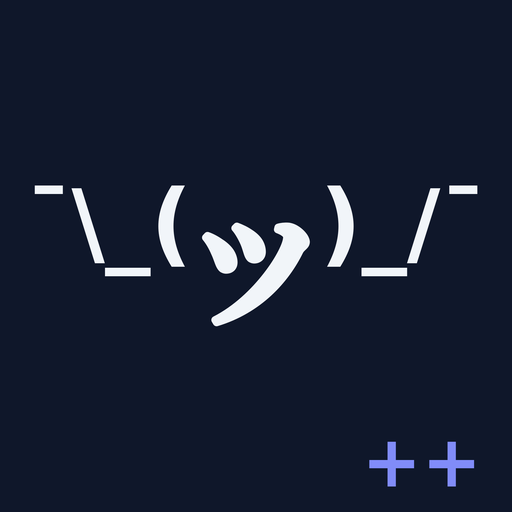
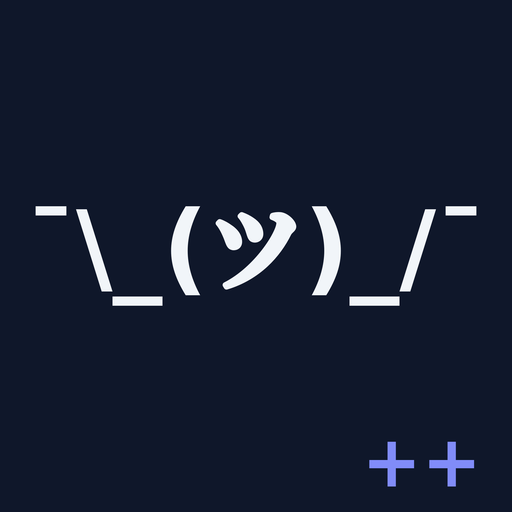
fix: center the face glyph between the parentheses
Size the ツ by ink height relative to the paren ink and center it on the paren ink center, instead of sharing the arms' baseline (which made it hang halfway below the parens).

Changed region(s): [[0.0625, 0.3438, 0.9375, 0.6562]]

diff --git a/profile/make_avatar.py b/profile/make_avatar.py
@@ -2,7 +2,9 @@
 """Generate the AutomationPlusPlus org avatar (profile/avatar.png).
 
 Arms use DejaVu Sans Bold unstroked — a uniform stroke fuses the tightly
-packed ¯ \\ _ ( glyphs into blobs. Only the thin serif ツ gets a mild stroke.
+packed ¯ \\ _ ( glyphs into blobs. The serif ツ gets a mild stroke and is
+sized/positioned by ink bbox so it sits centered between the parentheses
+instead of hanging below their baseline.
 """
 from PIL import Image, ImageDraw, ImageFont
 
@@ -12,48 +14,64 @@ BG, FG, ACCENT = (15, 23, 42), (241, 245, 249), (129, 140, 248)
 DEJAVU = "/usr/share/fonts/truetype/dejavu/DejaVuSans-Bold.ttf"
 CJK = "/usr/share/fonts/opentype/noto/NotoSerifCJK-Bold.ttc"
 
-def build(font_size):
-    dv = ImageFont.truetype(DEJAVU, font_size)
-    face_size = int(font_size * 1.4)
-    cjk = ImageFont.truetype(CJK, face_size, index=2)  # index 2 = JP
-    face_stroke = int(face_size * 0.03)
-    return [("¯\\_(", dv, 0), ("ツ", cjk, face_stroke), (")_/¯", dv, 0)]
-
 img = Image.new("RGB", (W, W), BG)
 d = ImageDraw.Draw(img)
 
-# size the shrug to ~90% of the canvas width
-target = int(W * 0.90)
+def face_font_for(paren_ink_h, guess):
+    # scale the face font so its ink height is ~88% of the paren ink height
+    for _ in range(10):
+        f = ImageFont.truetype(CJK, guess, index=2)  # index 2 = JP
+        st = int(guess * 0.03)
+        b = d.textbbox((0, 0), "ツ", font=f, stroke_width=st)
+        ink = b[3] - b[1]
+        target = paren_ink_h * 0.88
+        if abs(ink - target) < 4:
+            break
+        guess = int(guess * target / ink)
+    return f, st
+
+def layout(fs):
+    dv = ImageFont.truetype(DEJAVU, fs)
+    pb = d.textbbox((0, 0), "(", font=dv)
+    cjk, st = face_font_for(pb[3] - pb[1], int(fs * 1.1))
+    return dv, cjk, st, pb
+
+# fit total width to ~90% of the canvas
 fs = 400
 for _ in range(20):
-    segs = build(fs)
-    w = sum(d.textlength(t, font=f) for t, f, _ in segs)
-    if abs(w - target) < 8:
+    dv, cjk, st, pb = layout(fs)
+    total = (d.textlength("¯\\_(", font=dv) + d.textlength("ツ", font=cjk)
+             + d.textlength(")_/¯", font=dv))
+    target_w = W * 0.90
+    if abs(total - target_w) < 8:
         break
-    fs = int(fs * target / w)
-segs = build(fs)
-total_w = sum(d.textlength(t, font=f) for t, f, _ in segs)
+    fs = int(fs * target_w / total)
 
-# center vertically on the combined ink bbox
-tops, bottoms = [], []
-for t, f, st in segs:
-    b = d.textbbox((0, 0), t, font=f, stroke_width=st)
-    tops.append(b[1])
-    bottoms.append(b[3])
-top, bottom = min(tops), max(bottoms)
+dv, cjk, st, pb = layout(fs)
+w_left = d.textlength("¯\\_(", font=dv)
+w_face = d.textlength("ツ", font=cjk)
+total = w_left + w_face + d.textlength(")_/¯", font=dv)
 
-x = (W - total_w) / 2
-y = (W - (bottom - top)) / 2 - top
-for t, f, st in segs:
-    d.text((x, y), t, font=f, fill=FG, stroke_width=st, stroke_fill=FG)
-    x += d.textlength(t, font=f)
+# arms: center the full-arm ink bbox on the canvas
+ab = d.textbbox((0, 0), "¯\\_()_/¯", font=dv)
+x = (W - total) / 2
+y_arms = (W - (ab[3] - ab[1])) / 2 - ab[1]
+
+# face: center its ink on the paren ink center
+paren_center = y_arms + (pb[1] + pb[3]) / 2
+fb = d.textbbox((0, 0), "ツ", font=cjk, stroke_width=st)
+y_face = paren_center - (fb[1] + fb[3]) / 2
+
+d.text((x, y_arms), "¯\\_(", font=dv, fill=FG)
+d.text((x + w_left, y_face), "ツ", font=cjk, fill=FG, stroke_width=st, stroke_fill=FG)
+d.text((x + w_left + w_face, y_arms), ")_/¯", font=dv, fill=FG)
 
 # "++" accent, bottom right
 pp = ImageFont.truetype(DEJAVU, int(W * 0.14))
-pb = d.textbbox((0, 0), "++", font=pp)
-d.text((W - (pb[2] - pb[0]) - int(W * 0.06), W - (pb[3] - pb[1]) - pb[1] - int(W * 0.05)),
+ppb = d.textbbox((0, 0), "++", font=pp)
+d.text((W - (ppb[2] - ppb[0]) - int(W * 0.06), W - (ppb[3] - ppb[1]) - ppb[1] - int(W * 0.05)),
        "++", font=pp, fill=ACCENT)
 
 img = img.resize((SIZE, SIZE), Image.LANCZOS)
 img.save("avatar.png")
-print("saved avatar.png, font", fs)
+print("saved avatar.png, arm font", fs)